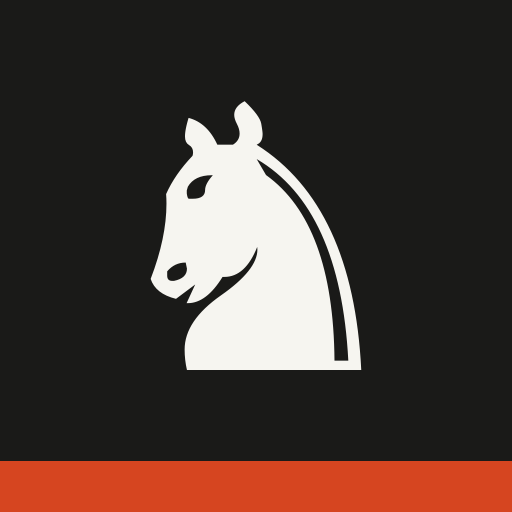
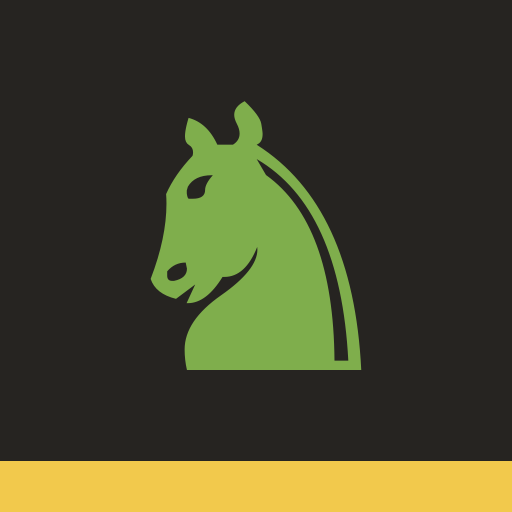
Add files via upload

Changed region(s): [[0.2812, 0.1875, 0.7188, 0.75], [0.0, 0.875, 1.0, 1.0]]

diff --git a/app.js b/app.js
@@ -9,6 +9,14 @@
 const REP = [{"id":"italian","name":"Apertura Italiana","color":"w","eco":"C50","desc":"Desarrollo rápido apuntando a f7. Tranquila y muy sólida.","lines":[{"label":"Giuoco Pianissimo","moves":[{"san":"e4","note":"Ocupas el centro y liberas dama y alfil."},{"san":"e5"},{"san":"Nf3","note":"Atacas e5 y te desarrollas hacia el enroque."},{"san":"Nc6"},{"san":"Bc4","note":"El alfil apunta a f7, el punto más débil del rival."},{"san":"Bc5"},{"san":"c3","note":"Preparas d4 para construir un centro grande."},{"san":"Nf6"},{"san":"d3","note":"Sin prisas: posición sólida y lista para maniobrar."},{"san":"d6"}]},{"label":"Dos Caballos","moves":[{"san":"e4","note":"Centro y desarrollo."},{"san":"e5"},{"san":"Nf3","note":"Presionas e5."},{"san":"Nc6"},{"san":"Bc4","note":"Apuntas a f7."},{"san":"Nf6","note":"Dos Caballos: el rival contraataca e4 en vez de ...Bc5."},{"san":"d3","note":"Defiendes e4 con calma y evitas complicaciones."},{"san":"Bc5"},{"san":"O-O","note":"Rey seguro; el plan c3-d4 vendrá después."},{"san":"d6"}]}]},{"id":"ruylopez","name":"Ruy López","color":"w","eco":"C60","desc":"La \"Española\": presión duradera sobre el defensor de e5.","lines":[{"label":"Morphy cerrada","moves":[{"san":"e4","note":"Centro y desarrollo."},{"san":"e5"},{"san":"Nf3","note":"Presionas e5."},{"san":"Nc6"},{"san":"Bb5","note":"Clavas indirectamente al defensor de e5."},{"san":"a6"},{"san":"Ba4","note":"Mantienes la presión sin ceder el alfil."},{"san":"Nf6"},{"san":"O-O","note":"Rey a salvo, la torre entra en juego."},{"san":"Be7"},{"san":"Re1","note":"Refuerzas e4 y preparas d4/c3."},{"san":"b5"},{"san":"Bb3","note":"El alfil vuelve a la diagonal contra f7."},{"san":"d6"},{"san":"c3","note":"Preparas d4, el plan central de la Española."},{"san":"O-O"}]},{"label":"Defensa Berlín","moves":[{"san":"e4","note":"Centro y desarrollo."},{"san":"e5"},{"san":"Nf3","note":"Presionas e5."},{"san":"Nc6"},{"san":"Bb5","note":"Clavas al defensor de e5."},{"san":"Nf6","note":"El Muro de Berlín: el rival ataca e4 de inmediato."},{"san":"O-O","note":"Enrocas y ofreces el peón e4 por desarrollo."},{"san":"Nxe4"},{"san":"Re1","note":"Reconquistas la iniciativa clavando el caballo."},{"san":"Nd6"},{"san":"Bxc6","note":"Cambias para desbaratar su estructura de peones."},{"san":"dxc6"},{"san":"Nxe5","note":"Recuperas el peón con buena posición."}]}]},{"id":"queensgambit","name":"Gambito de Dama","color":"w","eco":"D30","desc":"Ofreces el peón c para desviar a d5 y dominar el centro.","lines":[{"label":"Rechazado","moves":[{"san":"d4","note":"Centro sólido de peón dama."},{"san":"d5"},{"san":"c4","note":"Ofreces el peón para desviar a d5 del centro."},{"san":"e6"},{"san":"Nc3","note":"Desarrollas presionando d5."},{"san":"Nf6"},{"san":"Bg5","note":"Clavas el caballo f6, aflojando la defensa de d5."},{"san":"Be7"},{"san":"e3","note":"Abres paso al alfil f1 con estructura firme."},{"san":"O-O"},{"san":"Nf3","note":"Desarrollo natural, control de e5."},{"san":"h6"},{"san":"Bh4","note":"Mantienes la clavada en vez de cambiar."},{"san":"b6"}]},{"label":"Aceptado","moves":[{"san":"d4","note":"Centro sólido."},{"san":"d5"},{"san":"c4","note":"Ofreces el peón c."},{"san":"dxc4","note":"El rival acepta el gambito y toma en c4."},{"san":"Nf3","note":"No recuperas el peón aún: primero desarrollas."},{"san":"Nf6"},{"san":"e3","note":"Abres la diagonal para reconquistar c4 con el alfil."},{"san":"e6"},{"san":"Bxc4","note":"Recuperas el peón con un alfil muy activo."},{"san":"c5"},{"san":"O-O","note":"Rey seguro y ligera ventaja de desarrollo."},{"san":"a6"}]},{"label":"Defensa Eslava","moves":[{"san":"d4","note":"Centro sólido."},{"san":"d5"},{"san":"c4","note":"Ofreces el peón c."},{"san":"c6","note":"La Eslava: el rival apoya d5 con el peón c en vez de e6."},{"san":"Nf3","note":"Desarrollo flexible."},{"san":"Nf6"},{"san":"Nc3","note":"Presionas d5 con otra pieza."},{"san":"dxc4"},{"san":"a4","note":"Frenas ...b5, que intentaría sostener el peón de c4."},{"san":"Bf5"}]}]},{"id":"london","name":"Sistema Londres","color":"w","eco":"D02","desc":"Setup casi automático: mismo plan sólido contra casi todo.","lines":[{"label":"Setup clásico","moves":[{"san":"d4","note":"El peón dama ancla tu centro."},{"san":"d5"},{"san":"Nf3","note":"Evitas el molesto ...Bg4."},{"san":"Nf6"},{"san":"Bf4","note":"La seña del Londres: sacas el alfil ANTES de e3."},{"san":"e6"},{"san":"e3","note":"Ahora cierras, con el alfil ya afuera y activo."},{"san":"Bd6"},{"san":"Bg3","note":"Conservas el alfil y evitas cambios."},{"san":"O-O"},{"san":"Bd3","note":"Apuntas a h7; el setup queda completo."},{"san":"b6"},{"san":"Nbd2","note":"El caballo apoyará e4 más adelante."},{"san":"Bb7"}]},{"label":"Contra ...c5","moves":[{"san":"d4","note":"Centro de peón dama."},{"san":"d5"},{"san":"Nf3","note":"Desarrollo flexible."},{"san":"Nf6"},{"san":"Bf4","note":"Sacas el alfil primero."},{"san":"c5","note":"El rival golpea tu centro por el flanco de dama."},{"san":"e3","note":"Sostienes d4 y abres tu alfil f1."},{"san":"Nc6"},{"san":"c3","note":"Refuerzas d4 para que la presión no incomode."},{"san":"Qb6"},{"san":"Qb3","note":"Ofreces cambiar damas y neutralizas la presión sobre b2."}]}]},{"id":"english","name":"Apertura Inglesa","color":"w","eco":"A20","desc":"Controlas d5 desde el flanco: una Siciliana con colores cambiados.","lines":[{"label":"Siciliana invertida","moves":[{"san":"c4","note":"Peleas por d5 desde el flanco."},{"san":"e5"},{"san":"Nc3","note":"Refuerzas el control de d5."},{"san":"Nf6"},{"san":"Nf3","note":"Presionas e5 y te desarrollas."},{"san":"Nc6"},{"san":"g3","note":"Preparas el fianchetto: tu alfil mandará en la gran diagonal."},{"san":"d5"},{"san":"cxd5","note":"Abres la posición para tu alfil de g2."},{"san":"Nxd5"},{"san":"Bg2","note":"El alfil presiona centro y flanco de dama."},{"san":"Nb6"},{"san":"O-O","note":"Rey seguro; a completar con d3/b3."},{"san":"Be7"}]},{"label":"Simétrica","moves":[{"san":"c4","note":"Control de d5 desde el flanco."},{"san":"c5","note":"El rival responde en espejo: posición simétrica."},{"san":"Nc3","note":"Desarrollas hacia d5/b5."},{"san":"Nc6"},{"san":"g3","note":"Preparas el fianchetto."},{"san":"g6"},{"san":"Bg2","note":"Tu alfil domina la gran diagonal."},{"san":"Bg7"},{"san":"Nf3","note":"Desarrollo natural."},{"san":"Nf6"},{"san":"O-O","note":"Rey seguro; rompes la simetría con d4 o b3 después."},{"san":"O-O"}]}]},{"id":"sicilian","name":"Siciliana (Najdorf)","color":"b","eco":"B90","desc":"La respuesta más combativa a 1.e4: desequilibrio desde la salida.","lines":[{"label":"Clásica 6.Be2","moves":[{"san":"e4"},{"san":"c5","note":"La Siciliana: peleas el centro de forma asimétrica."},{"san":"Nf3"},{"san":"d6","note":"Preparas ...Nf6 y controlas e5."},{"san":"d4"},{"san":"cxd4","note":"Cambias tu peón c por el central: ganas columna \"c\"."},{"san":"Nxd4"},{"san":"Nf6","note":"Atacas e4 y te desarrollas."},{"san":"Nc3"},{"san":"a6","note":"El toque Najdorf: controla b5 y prepara ...e5."},{"san":"Be2"},{"san":"e5","note":"Ganas espacio y expulsas al caballo de d4."},{"san":"Nb3"},{"san":"Be7","note":"Desarrollas y preparas el enroque."}]},{"label":"Ataque inglés 6.Be3","moves":[{"san":"e4"},{"san":"c5","note":"Siciliana."},{"san":"Nf3"},{"san":"d6","note":"Controlas e5."},{"san":"d4"},{"san":"cxd4","note":"Abres la columna c."},{"san":"Nxd4"},{"san":"Nf6","note":"Atacas e4."},{"san":"Nc3"},{"san":"a6","note":"Najdorf."},{"san":"Be3","note":"Ataque inglés: el rival prepara f3, Qd2 y enroque largo."},{"san":"e5","note":"Reaccionas en el centro ganando espacio."},{"san":"Nb3"},{"san":"Be6","note":"Desarrollas vigilando d5, casilla clave en esta línea."}]},{"label":"Alapin 2.c3","moves":[{"san":"e4"},{"san":"c5","note":"Siciliana."},{"san":"c3","note":"Alapin: el rival prepara d4 con apoyo en vez de 2.Nf3."},{"san":"Nf6","note":"Atacas e4 de inmediato para no dejarle centro cómodo."},{"san":"e5"},{"san":"Nd5","note":"El caballo se planta fuerte en el centro."},{"san":"d4"},{"san":"cxd4","note":"Abres líneas antes de que consolide."},{"san":"Nf3"},{"san":"Nc6","note":"Desarrollas presionando d4/e5."},{"san":"cxd4"},{"san":"d6","note":"Golpeas la cadena y liberas tu juego."}]}]},{"id":"french","name":"Defensa Francesa","color":"b","eco":"C00","desc":"Estructura de cadena sólida y contragolpe con ...c5.","lines":[{"label":"Winawer","moves":[{"san":"e4"},{"san":"e6","note":"Preparas ...d5 con una estructura muy sólida."},{"san":"d4"},{"san":"d5","note":"Golpeas el centro de inmediato."},{"san":"Nc3"},{"san":"Bb4","note":"Winawer: clavas el caballo y presionas e4."},{"san":"e5"},{"san":"c5","note":"Atacas la base de la cadena de peones (d4)."},{"san":"a3"},{"san":"Bxc3+","note":"Cambias alfil por caballo y dañas su estructura."},{"san":"bxc3"},{"san":"Ne7","note":"Rumbo a f5/g6 para presionar d4 y e5."}]},{"label":"Avance","moves":[{"san":"e4"},{"san":"e6","note":"Preparas ...d5."},{"san":"d4"},{"san":"d5","note":"Desafías el centro."},{"san":"e5","note":"Avance: el rival cierra el centro y gana espacio."},{"san":"c5","note":"Golpeas de inmediato la base de la cadena (d4)."},{"san":"c3"},{"san":"Nc6","note":"Sumas presión sobre d4."},{"san":"Nf3"},{"san":"Qb6","note":"La dama ataca d4 y b2: presión típica de la Francesa."}]},{"label":"Cambio","moves":[{"san":"e4"},{"san":"e6","note":"Preparas ...d5."},{"san":"d4"},{"san":"d5","note":"Desafías el centro."},{"san":"exd5","note":"Cambio: el rival simplifica y busca tablas."},{"san":"exd5","note":"Recapturas con estructura simétrica pero jugable."},{"san":"Nf3"},{"san":"Nf6","note":"Desarrollo natural."},{"san":"Bd3"},{"san":"Bd6","note":"Colocas tus piezas en espejo, sin ceder nada."}]}]},{"id":"carokann","name":"Defensa Caro-Kann","color":"b","eco":"B10","desc":"Sólida como la Francesa, pero sin encerrar el alfil bueno.","lines":[{"label":"Clásica","moves":[{"san":"e4"},{"san":"c6","note":"Preparas ...d5 sin encerrar a tu alfil bueno."},{"san":"d4"},{"san":"d5","note":"Desafías el centro de inmediato."},{"san":"Nc3"},{"san":"dxe4","note":"Abres la posición en buenos términos."},{"san":"Nxe4"},{"san":"Bf5","note":"Sacas el alfil \"problema\" ANTES de cerrarlo con ...e6."},{"san":"Ng3"},{"san":"Bg6","note":"El alfil se retira a una casilla segura y activa."},{"san":"h4"},{"san":"h6","note":"Le das casa de escape al alfil y frenas h5."},{"san":"Nf3"},{"san":"Nd7","note":"Desarrollo flexible: preparas ...Ngf6 y ...e6."}]},{"label":"Avance","moves":[{"san":"e4"},{"san":"c6","note":"Preparas ...d5."},{"san":"d4"},{"san":"d5","note":"Desafías el centro."},{"san":"e5","note":"Avance: el rival cierra el centro y gana espacio."},{"san":"Bf5","note":"La clave del Caro: tu alfil sale ANTES de quedar encerrado."},{"san":"Nf3"},{"san":"e6","note":"Ahora sí cierras, con el alfil bueno ya fuera."},{"san":"Be2"},{"san":"c5","note":"Golpeas la base de la cadena de peones."}]},{"label":"Cambio","moves":[{"san":"e4"},{"san":"c6","note":"Preparas ...d5."},{"san":"d4"},{"san":"d5","note":"Desafías el centro."},{"san":"exd5","note":"Cambio: el rival simplifica la estructura."},{"san":"cxd5","note":"Recapturas y obtienes una posición cómoda y sólida."},{"san":"Bd3"},{"san":"Nc6","note":"Desarrollas presionando d4."},{"san":"c3"},{"san":"Nf6","note":"Completas el desarrollo con total comodidad."}]}]},{"id":"kingsindian","name":"India de Rey","color":"b","eco":"E60","desc":"Cedes el centro para después atacarlo con piezas y ...e5/...f5.","lines":[{"label":"Clásica","moves":[{"san":"d4"},{"san":"Nf6","note":"Controlas e4 con flexibilidad."},{"san":"c4"},{"san":"g6","note":"Preparas el fianchetto: el alfil dominará la gran diagonal."},{"san":"Nc3"},{"san":"Bg7","note":"El alfil presiona el centro y protege tu rey."},{"san":"e4"},{"san":"d6","note":"Cedes espacio a propósito para golpear con ...e5 luego."},{"san":"Nf3"},{"san":"O-O","note":"Rey seguro antes de romper en el centro."},{"san":"Be2"},{"san":"e5","note":"El golpe temático: atacas su centro con piezas listas."},{"san":"O-O"},{"san":"Nc6","note":"Presionas d4 y preparas reagrupamientos."}]},{"label":"Sämisch","moves":[{"san":"d4"},{"san":"Nf6","note":"Controlas e4."},{"san":"c4"},{"san":"g6","note":"Preparas el fianchetto."},{"san":"Nc3"},{"san":"Bg7","note":"El alfil apunta al centro."},{"san":"e4"},{"san":"d6","note":"Estructura India de Rey."},{"san":"f3","note":"Sämisch: el rival blinda e4 y prepara enroque largo y ataque."},{"san":"O-O","note":"Enrocas; buscarás contrajuego con ...e5 o ...c5."},{"san":"Be3"},{"san":"e5","note":"Golpeas el centro sin miedo a la estructura sólida rival."}]},{"label":"Fianchetto","moves":[{"san":"d4"},{"san":"Nf6","note":"Controlas e4."},{"san":"c4"},{"san":"g6","note":"Preparas el fianchetto."},{"san":"Nc3"},{"san":"Bg7","note":"Alfil a la gran diagonal."},{"san":"Nf3","note":"El rival elige el sistema de fianchetto en vez de 4.e4."},{"san":"O-O","note":"Enrocas con seguridad."},{"san":"g3"},{"san":"d6","note":"Preparas la ruptura ...e5 con calma."},{"san":"Bg2"},{"san":"Nbd7","note":"El caballo apoya la futura ruptura ...e5."}]}]},{"id":"qgd","name":"Gambito de Dama Rechazado","color":"b","eco":"D35","desc":"Estructura firme; resuelves el alfil dama con ...Be7 y ...Nbd7.","lines":[{"label":"Variante del cambio","moves":[{"san":"d4"},{"san":"d5","note":"Ocupas el centro con solidez."},{"san":"c4"},{"san":"e6","note":"Rechazas el gambito y refuerzas d5."},{"san":"Nc3"},{"san":"Nf6","note":"Desarrollas y defiendes d5."},{"san":"cxd5","note":"Cambio: el rival fija la estructura."},{"san":"exd5","note":"Recapturas manteniendo un peón sólido en d5."},{"san":"Bg5"},{"san":"Be7","note":"Rompes la clavada y preparas el enroque."},{"san":"e3"},{"san":"O-O","note":"Rey a salvo; tu estructura es muy firme."},{"san":"Bd3"},{"san":"Nbd7","note":"El caballo irá a f6/f8 para reforzar la defensa."}]},{"label":"Principal con Bg5","moves":[{"san":"d4"},{"san":"d5","note":"Centro sólido."},{"san":"c4"},{"san":"e6","note":"Rechazas el gambito."},{"san":"Nc3"},{"san":"Nf6","note":"Defiendes d5."},{"san":"Bg5","note":"El rival clava tu caballo para presionar d5."},{"san":"Be7","note":"Deshaces la clavada con desarrollo."},{"san":"e3"},{"san":"O-O","note":"Rey seguro."},{"san":"Nf3"},{"san":"h6","note":"Interrogas al alfil: que decida clavar o cambiar."},{"san":"Bh4"},{"san":"b6","note":"Preparas ...Bb7 para pelear por e4 y la gran diagonal."}]},{"label":"Catalán","moves":[{"san":"d4"},{"san":"d5","note":"Centro sólido."},{"san":"c4"},{"san":"e6","note":"Rechazas el gambito."},{"san":"Nf3","note":"El rival va rumbo al Catalán en vez de 3.Nc3."},{"san":"Nf6","note":"Desarrollo natural."},{"san":"g3"},{"san":"Be7","note":"Te desarrollas con solidez ante el fianchetto rival."},{"san":"Bg2"},{"san":"O-O","note":"Rey seguro."},{"san":"O-O"},{"san":"dxc4","note":"Tomas en c4: si el rival lo recupera, habrás ganado tiempo o el peón cuesta trabajo recobrarlo."}]}]}];
 
 const GLYPH={p:'\u265F',n:'\u265E',b:'\u265D',r:'\u265C',q:'\u265B',k:'\u265A'};
+const PIECE_SVG={
+  p:'<ellipse class="sh" cx="50" cy="91" rx="24" ry="5"/><circle class="bd" cx="50" cy="30" r="11"/><path class="bd" d="M42 38c-5 4-8 12-9 26h34c-1-14-4-22-9-26z"/><path class="bd" d="M31 62h38c3 0 5 3 4 6l-2 9H29l-2-9c-1-3 1-6 4-6z"/>',
+  n:'<ellipse class="sh" cx="50" cy="91" rx="27" ry="5"/><path class="bd" d="M56 16c-9 0-17 5-24 14-4 5-8 12-9 22-.4 4 .3 7 2 9h7c0-5 2-9 5-12-1 4-1 8 0 11h33c3-15 3-30-3-41-2-4-6-13-11-13z"/><path class="mane" d="M56 16c3 0 6 5 8 9-4-2-8-2-12 0 1-4 2-9 4-9z"/><circle class="ey" cx="40" cy="40" r="2.6"/><path class="bd" d="M29 66h42c3 0 5 3 4 6l-2 9H27l-2-9c-1-3 1-6 4-6z"/>',
+  b:'<ellipse class="sh" cx="50" cy="91" rx="25" ry="5"/><circle class="bd" cx="50" cy="17" r="5"/><path class="bd" d="M50 23c-10 0-17 11-17 24 0 7 3 13 8 16h18c5-3 8-9 8-16 0-13-7-24-17-24z"/><path class="cut" d="M50 36l7 10H43z"/><path class="bd" d="M31 65h38c3 0 5 3 4 6l-2 10H29l-2-10c-1-3 1-6 4-6z"/>',
+  r:'<ellipse class="sh" cx="50" cy="91" rx="26" ry="5"/><path class="bd" d="M29 22h7v6h6v-6h6v6h6v-6h7v15l-6 6v20H35V43l-6-6z"/><rect class="bd" x="35" y="58" width="30" height="6"/><path class="bd" d="M27 66h46c3 0 5 3 4 6l-2 10H25l-2-10c-1-3 1-6 4-6z"/>',
+  q:'<ellipse class="sh" cx="50" cy="91" rx="27" ry="5"/><circle class="bd" cx="26" cy="28" r="4.5"/><circle class="bd" cx="38" cy="22" r="4.5"/><circle class="bd" cx="50" cy="19" r="4.5"/><circle class="bd" cx="62" cy="22" r="4.5"/><circle class="bd" cx="74" cy="28" r="4.5"/><path class="bd" d="M26 31l7 33h34l7-33-13 14-5-18-6 20-6-20-5 18z"/><path class="bd" d="M30 60h40c3 0 4 2 4 5l-1 5H31l-1-5c0-3 1-5 4-5z"/><path class="bd" d="M27 72h46c3 0 5 3 4 6l-2 8H25l-2-8c-1-3 1-6 4-6z"/>',
+  k:'<ellipse class="sh" cx="50" cy="91" rx="27" ry="5"/><path class="bd" d="M46 8h8v6h6v7h-6v7h-8v-7h-6v-7h6z"/><path class="bd" d="M50 30c-12 0-21 9-21 21 0 6 2 10 5 13-3 2-5 5-6 9h44c-1-4-3-7-6-9 3-3 5-7 5-13 0-12-9-21-21-21z"/><path class="bd" d="M28 71h44c3 0 5 3 4 6l-2 9H26l-2-9c-1-3 1-6 4-6z"/>'
+};
 const FILES=['a','b','c','d','e','f','g','h'];
 const DAY=86400000;
 const $=id=>document.getElementById(id);
@@ -17,10 +25,10 @@ const el=(t,c)=>{const e=document.createElement(t); if(c)e.className=c; return e
 // ===================== PERSISTENCIA =====================
 const STORE_KEY='cae_v1';
 let persistOK=true;
-function defaultStore(){ return {version:1, items:{}, stats:{lines:0,attempts:0,correct:0}, streak:{count:0,lastDay:null}, customPgns:[], settings:{newPerSession:5}}; }
+function defaultStore(){ return {version:1, items:{}, stats:{lines:0,attempts:0,correct:0}, streak:{count:0,lastDay:null}, customPgns:[], settings:{newPerSession:5, guideMode:true}}; }
 let store=defaultStore();
 function loadStore(){
-  try{ const raw=localStorage.getItem(STORE_KEY); if(raw){ const p=JSON.parse(raw); store=Object.assign(defaultStore(),p); store.items=p.items||{}; store.stats=Object.assign({lines:0,attempts:0,correct:0},p.stats); store.streak=Object.assign({count:0,lastDay:null},p.streak); store.customPgns=p.customPgns||[]; store.settings=Object.assign({newPerSession:5},p.settings); } }
+  try{ const raw=localStorage.getItem(STORE_KEY); if(raw){ const p=JSON.parse(raw); store=Object.assign(defaultStore(),p); store.items=p.items||{}; store.stats=Object.assign({lines:0,attempts:0,correct:0},p.stats); store.streak=Object.assign({count:0,lastDay:null},p.streak); store.customPgns=p.customPgns||[]; store.settings=Object.assign({newPerSession:5,guideMode:true},p.settings); } }
   catch(e){ persistOK=false; }
   // probar escritura
   try{ localStorage.setItem(STORE_KEY+'_t','1'); localStorage.removeItem(STORE_KEY+'_t'); }catch(e){ persistOK=false; }
@@ -260,7 +268,15 @@ function startOpening(op, opts){
   $('plyTotal').textContent=Math.max(...op.lines.map(l=>l.moves.length));
   $('btnHint').disabled=false; $('btnRestart').disabled=false; $('btnUndo').disabled=true;
   setIdea('idea','Empieza la línea','La máquina juega la respuesta del rival. Encuentra el movimiento del repertorio.');
+  updateSideLabels();
   renderBoard(); renderLog(); autoAdvance();
+}
+function updateSideLabels(){
+  const rivalColor = activeOp.color==='w' ? 'b' : 'w';
+  const rivalWord = rivalColor==='w' ? 'blancas' : 'negras';
+  const youWord = activeOp.color==='w' ? 'blancas' : 'negras';
+  $('labelTop').innerHTML = '<span class="chip '+(rivalColor==='w'?'wtone':'btone')+'"></span><span>juega el rival ('+rivalWord+')</span>';
+  $('labelBottom').innerHTML = '<span class="chip '+(activeOp.color==='w'?'wtone':'btone')+'"></span><span><span class="who">Tú</span> juegas aquí ('+youWord+')</span>';
 }
 function exploreOpening(opId){ inSession=false; freeMode=true; activeItem=null; startOpening(opFull(opId)); }
 function exploreItem(itemId){ inSession=false; freeMode=false; const it=itemById(itemId); activeItem=it; startOpening(opFromItem(it)); }
@@ -310,8 +326,9 @@ function autoAdvance(){
     const res=chess.move(san); lastMove=res?{from:res.from,to:res.to}:null; played.push(san); ply++;
     setIdea('idea','Juega el rival','<span class="mv">'+san+'</span>'+(note?' — '+note:''));
   }
-  maybeReveal(); updateTurn(); renderBoard(); renderLog();
+  maybeReveal(); updateTurn();
   awaiting=true; cleanMove=true; hintUsedMove=false; hintLevel=0; $('btnUndo').disabled=(ply===0);
+  renderBoard(); renderLog();
 }
 function maybeReveal(){
   if(revealed||freeMode) return;
@@ -362,12 +379,15 @@ function renderBoard(){
   const rl=$('ranks'); rl.innerHTML=''; rO.forEach(r=>{const d=el('div');d.textContent=(8-r);rl.appendChild(d);});
   const fl=$('files'); fl.innerHTML=''; fO.forEach(f=>{const d=el('div');d.textContent=FILES[f];fl.appendChild(d);});
   let targets=[]; if(selected){ targets=chess.moves({square:selected,verbose:true}).map(m=>({to:m.to,cap:!!m.captured})); }
+  let guideSq=null;
+  if(awaiting && !selected && store.settings.guideMode){ const exps=expectedSans(); if(exps.length){ const ft=fromToOf(exps[0]); if(ft) guideSq=ft.from; } }
   rO.forEach(r=>{ fO.forEach(f=>{
     const sq=FILES[f]+(8-r); const cell=el('div','sq '+(((f+r)%2===1)?'dark':'light')); cell.dataset.sq=sq;
-    const pc=grid[r][f]; if(pc){ const sp=el('span','piece '+pc.color); sp.textContent=GLYPH[pc.type]; cell.appendChild(sp); }
+    const pc=grid[r][f]; if(pc){ const sp=el('span','piece '+pc.color); sp.innerHTML='<svg viewBox="0 0 100 100" aria-hidden="true">'+PIECE_SVG[pc.type]+'</svg>'; cell.appendChild(sp); }
     if(selected===sq) cell.classList.add('selected');
     const t=targets.find(x=>x.to===sq); if(t){ if(t.cap)cell.classList.add('target-capture'); cell.appendChild(el('span','dot')); }
     if(lastMove&&(lastMove.from===sq||lastMove.to===sq)) cell.classList.add('lastmove');
+    if(guideSq===sq) cell.classList.add('guide');
     if(awaiting){ const mine=pc&&pc.color===activeOp.color; if(mine||selected) cell.classList.add('playable'); }
     cell.addEventListener('click',()=>onSquare(sq)); board.appendChild(cell);
   });});
@@ -468,6 +488,7 @@ function initApp(){
   $('btnRestart').addEventListener('click',doRestart);
   $('btnContinue').addEventListener('click',()=>{ nextInSession(); });
   const nps=$('newPerSession'); nps.value=store.settings.newPerSession; nps.addEventListener('change',()=>{ store.settings.newPerSession=Math.max(0,Math.min(20,parseInt(nps.value)||0)); saveStore(); renderHome(); });
+  const gm=$('guideMode'); if(gm){ gm.checked=store.settings.guideMode!==false; gm.addEventListener('change',()=>{ store.settings.guideMode=gm.checked; saveStore(); if(activeOp) renderBoard(); }); }
   const bSignIn=$('btnSignIn'); if(bSignIn) bSignIn.addEventListener('click',async()=>{ try{ await window.CloudSync.signIn(); }catch(e){ toast('No se pudo iniciar sesión.',true); } });
   const bSignOut=$('btnSignOut'); if(bSignOut) bSignOut.addEventListener('click',async()=>{ await window.CloudSync.signOutUser(); toast('Cerraste sesión. Tus avances siguen guardados en este dispositivo.'); });
   const bSyncNow=$('btnSyncNow'); if(bSyncNow) bSyncNow.addEventListener('click',doPullAndMerge);

diff --git a/index.html b/index.html
@@ -4,7 +4,7 @@
 <meta charset="UTF-8">
 <meta name="viewport" content="width=device-width, initial-scale=1.0, viewport-fit=cover">
 <title>Entrenador de aperturas</title>
-<meta name="theme-color" content="#1A1A18">
+<meta name="theme-color" content="#262421">
 <meta name="description" content="Tu instructor de aperturas de ajedrez con repaso espaciado. Funciona sin conexión.">
 <link rel="manifest" href="./manifest.webmanifest">
 <link rel="apple-touch-icon" href="./apple-touch-icon.png">
@@ -13,10 +13,10 @@
 <meta name="apple-mobile-web-app-title" content="Aperturas">
 <style>
   :root{
-    --paper:#E7E6E1; --surface:#F2F1EC; --ink:#1A1A18; --ink-soft:#6B6A64;
-    --line:#C9C7BE; --sq-light:#DAD8D0; --sq-dark:#3C4A5A;
-    --piece-white:#F6F5F0; --piece-black:#16181C;
-    --good:#2E7D4F; --bad:#C0392B; --accent:#D64520; --hint:#E0A100;
+    --paper:#262421; --surface:#302E2B; --ink:#EDEDE6; --ink-soft:#9E9B94;
+    --line:#47443F; --sq-light:#EDEED1; --sq-dark:#7A9560;
+    --piece-white:#FAFAF5; --piece-black:#1B1B1B;
+    --good:#6FB35C; --bad:#E2584B; --accent:#7FAE4C; --hint:#E7A93B; --board-mark:#F2C94C; --hero-bg:#33421F;
   }
   *{box-sizing:border-box}
   html,body{margin:0;padding:0}
@@ -31,7 +31,7 @@
   button{font-family:inherit}
 
   /* ---------- header ---------- */
-  header.top{display:flex;align-items:center;justify-content:space-between;gap:12px;flex-wrap:wrap;border-bottom:2px solid var(--ink);padding-bottom:14px;margin-bottom:20px}
+  header.top{display:flex;align-items:center;justify-content:space-between;gap:12px;flex-wrap:wrap;border-bottom:2px solid var(--line);padding-bottom:14px;margin-bottom:20px}
   header.top .brand{display:flex;align-items:center;gap:11px}
   header.top .brand .logo{width:30px;height:30px;flex:0 0 auto}
   header.top h1{font-size:clamp(19px,3vw,26px);font-weight:700;letter-spacing:-0.02em;margin:0;text-transform:lowercase}
@@ -44,7 +44,7 @@
   .pill.warn{border-color:var(--hint);color:#9a7400}
 
   /* ---------- hero sesión ---------- */
-  .hero{background:var(--ink);color:var(--paper);border-radius:3px;padding:22px 22px;margin-bottom:20px;display:flex;align-items:center;justify-content:space-between;gap:18px;flex-wrap:wrap;position:relative;overflow:hidden}
+  .hero{background:var(--hero-bg);color:var(--ink);border-radius:3px;padding:22px 22px;margin-bottom:20px;display:flex;align-items:center;justify-content:space-between;gap:18px;flex-wrap:wrap;position:relative;overflow:hidden}
   .hero::after{content:"";position:absolute;right:-40px;bottom:-40px;width:160px;height:14px;background:var(--accent);transform:rotate(-12deg)}
   .hero .hero-left{position:relative;z-index:1}
   .hero .hero-eyebrow{font-size:12px;letter-spacing:.05em;color:#B9B7AE;margin:0 0 6px;text-transform:lowercase}
@@ -67,17 +67,17 @@
 
   .cols{display:grid;grid-template-columns:1fr 1fr;gap:22px;margin-bottom:22px}
   .rep-col h3{font-size:11px;color:var(--ink-soft);margin:0 0 8px;display:flex;align-items:center;gap:7px;font-weight:400}
-  .rep-col h3::before{content:"";width:12px;height:12px;border:1.5px solid var(--ink)}
-  .rep-col.black h3::before{background:var(--ink)}
+  .rep-col h3::before{content:"";width:12px;height:12px;border:1.5px solid var(--line)}
+  .rep-col.black h3::before{background:var(--piece-black)}
   .rep-row{display:block;width:100%;text-align:left;cursor:pointer;background:var(--surface);border:1.5px solid var(--line);border-radius:2px;padding:9px 11px;margin-bottom:7px;color:var(--ink);transition:border-color .12s}
   .rep-row:hover{border-color:var(--ink)}
   .rep-row:focus-visible{outline:2px solid var(--accent);outline-offset:2px}
   .rr-top{display:flex;justify-content:space-between;align-items:baseline;gap:8px}
   .rr-name{font-size:14px}
   .rr-eco,.rr-due{font-size:11px;color:var(--ink-soft);font-family:ui-monospace,Menlo,monospace}
-  .rr-due{color:var(--accent);font-weight:700}
+  .rr-due{color:var(--hint);font-weight:700}
   .rr-bar{height:5px;background:var(--line);border-radius:2px;margin-top:8px;overflow:hidden}
-  .rr-bar span{display:block;height:100%;background:var(--ink)}
+  .rr-bar span{display:block;height:100%;background:var(--accent)}
 
   /* ---------- pgn + ajustes ---------- */
   .panel{background:var(--surface);border:1.5px solid var(--line);border-radius:2px;padding:16px;margin-bottom:16px}
@@ -88,11 +88,11 @@
   .panel input:focus-visible,.panel textarea:focus-visible{outline:2px solid var(--accent);outline-offset:1px}
   .pgn-colors{display:flex;gap:16px;font-size:13px;margin:8px 0}
   .pgn-colors label{display:flex;align-items:center;gap:6px;cursor:pointer;margin:0}
-  .btn{background:var(--ink);color:var(--paper);border:1.5px solid var(--ink);border-radius:2px;padding:10px 16px;font-size:14px;cursor:pointer;transition:background .12s,color .12s}
-  .btn:hover{background:var(--accent);border-color:var(--accent);color:#fff}
-  .btn:focus-visible{outline:2px solid var(--accent);outline-offset:2px}
-  .btn.ghost{background:var(--paper);color:var(--ink)}
-  .btn.ghost:hover{background:var(--ink);color:var(--paper);border-color:var(--ink)}
+  .btn{background:var(--accent);color:#fff;border:1.5px solid var(--accent);border-radius:2px;padding:10px 16px;font-size:14px;cursor:pointer;transition:filter .12s}
+  .btn:hover{filter:brightness(1.12)}
+  .btn:focus-visible{outline:2px solid var(--board-mark);outline-offset:2px}
+  .btn.ghost{background:var(--surface);color:var(--ink);border:1.5px solid var(--line)}
+  .btn.ghost:hover{background:var(--line);color:var(--ink);filter:none}
   .pgn-msg{font-size:12px;margin-top:8px;min-height:15px}
   .pgn-msg.err{color:var(--bad)} .pgn-msg.ok{color:var(--good)}
   .pgn-row{display:flex;gap:8px;align-items:stretch;margin-bottom:7px}
@@ -117,34 +117,48 @@
   .tbar .sprog{font-size:12px;color:var(--accent);font-weight:600;font-family:ui-monospace,Menlo,monospace}
 
   .var-badge{font-size:12px;color:var(--ink-soft);min-height:16px;margin-bottom:8px;font-family:ui-monospace,Menlo,monospace}
+  .side-label{display:flex;align-items:center;gap:8px;font-size:13px;color:var(--ink-soft);max-width:560px;margin:0 auto;padding:2px 2px}
+  .side-label .who{font-weight:700;color:var(--ink)}
+  .side-label .chip{width:13px;height:13px;border:1.5px solid var(--line);flex:0 0 auto}
+  .side-label.you .chip.wtone{background:var(--piece-white)}
+  .side-label.rival .chip.wtone{background:var(--piece-white)}
+  .side-label .chip.btone{background:var(--piece-black)}
   .status-bar{display:flex;align-items:center;justify-content:space-between;gap:12px;flex-wrap:wrap;margin-bottom:12px}
   .turn-tag{display:flex;align-items:center;gap:9px;font-size:15px;font-weight:600}
-  .turn-tag .disc{width:15px;height:15px;border:2px solid var(--ink)}
-  .turn-tag.black .disc{background:var(--ink)}
+  .turn-tag .disc{width:15px;height:15px;border:2px solid var(--line)}
+  .turn-tag.black .disc{background:var(--piece-black);border-color:var(--piece-black)}
   .progress{font-size:13px;color:var(--ink-soft)}
   .progress .mono{color:var(--ink);font-size:14px;font-family:ui-monospace,Menlo,monospace}
 
   .board-shell{display:flex;gap:8px;align-items:stretch;max-width:560px;margin:0 auto}
   .ranks{display:flex;flex-direction:column;justify-content:space-around;font-size:11px;color:var(--ink-soft);padding:2px 0}
   .board-and-files{flex:1;min-width:0}
-  .board{width:100%;aspect-ratio:1/1;display:grid;grid-template-columns:repeat(8,1fr);grid-template-rows:repeat(8,1fr);border:2px solid var(--ink)}
+  .board{width:100%;aspect-ratio:1/1;display:grid;grid-template-columns:repeat(8,1fr);grid-template-rows:repeat(8,1fr);border:2px solid var(--line)}
   .files{display:grid;grid-template-columns:repeat(8,1fr);font-size:11px;color:var(--ink-soft);text-align:center;padding-top:3px}
   .sq{position:relative;display:flex;align-items:center;justify-content:center;user-select:none}
   .sq.light{background:var(--sq-light)} .sq.dark{background:var(--sq-dark)}
   .sq.playable{cursor:pointer}
-  .piece{font-size:min(9.4vw,50px);line-height:1;pointer-events:none}
-  @media(min-width:600px){.piece{font-size:50px}}
-  .piece.w{color:var(--piece-white);text-shadow:0 0 1px var(--ink),0 1px 2px rgba(0,0,0,.35)}
-  .piece.b{color:var(--piece-black);text-shadow:0 0 1px rgba(255,255,255,.35)}
-  .sq.selected::after{content:"";position:absolute;inset:0;border:3px solid var(--accent)}
+  .piece{width:88%;height:88%;pointer-events:none;display:flex;align-items:center;justify-content:center}
+  .piece svg{width:100%;height:100%;display:block;overflow:visible}
+  .piece .sh{fill:rgba(0,0,0,.22)}
+  .piece .bd{stroke-width:3.2;stroke-linejoin:round;stroke-linecap:round;paint-order:stroke fill}
+  .piece.w .bd{fill:var(--piece-white);stroke:#1b1b1b}
+  .piece.b .bd{fill:var(--piece-black);stroke:#0a0a0a}
+  .piece.w .ey{fill:#1b1b1b} .piece.b .ey{fill:#dddddd}
+  .piece.w .cut{fill:#1b1b1b} .piece.b .cut{fill:#0a0a0a}
+  .piece.w .mane{fill:#1b1b1b} .piece.b .mane{fill:#0a0a0a}
+  .sq.selected::after{content:"";position:absolute;inset:0;border:3px solid var(--board-mark)}
   .sq .dot{position:absolute;width:26%;height:26%;border-radius:50%;background:rgba(26,26,24,.32)}
   .sq.dark .dot{background:rgba(246,245,240,.4)}
   .sq.target-capture .dot{width:78%;height:78%;background:transparent;border:4px solid rgba(26,26,24,.34);border-radius:50%}
   .sq.dark.target-capture .dot{border-color:rgba(246,245,240,.42)}
   .sq.hint::before{content:"";position:absolute;inset:0;background:var(--hint);opacity:.34}
+  .sq.guide::after{content:"";position:absolute;inset:8%;border:3px solid var(--board-mark);border-radius:50%;opacity:.6;pointer-events:none;animation:guidepulse 1.6s ease-in-out infinite}
+  @keyframes guidepulse{0%,100%{opacity:.35;transform:scale(.94)}50%{opacity:.7;transform:scale(1)}}
+  @media(prefers-reduced-motion:reduce){.sq.guide::after{animation:none;opacity:.5}}
   .sq.flash-good::before{content:"";position:absolute;inset:0;background:var(--good);opacity:.42}
   .sq.flash-bad::before{content:"";position:absolute;inset:0;background:var(--bad);opacity:.42}
-  .sq.lastmove::before{content:"";position:absolute;inset:0;background:var(--accent);opacity:.16}
+  .sq.lastmove::before{content:"";position:absolute;inset:0;background:var(--board-mark);opacity:.20}
 
   .idea{background:var(--surface);border:1.5px solid var(--line);border-radius:2px;padding:14px 16px;min-height:88px;max-width:560px;margin:14px auto 0}
   .idea .head{font-size:12px;letter-spacing:.05em;color:var(--ink-soft);margin:0 0 6px;font-weight:600}
@@ -160,17 +174,17 @@
   .moves-log .num{color:var(--ink-soft)}
 
   .controls{display:flex;gap:10px;flex-wrap:wrap;max-width:560px;margin:14px auto 0}
-  button.ctrl{font-size:14px;cursor:pointer;padding:11px 16px;border-radius:2px;border:1.5px solid var(--ink);background:var(--paper);color:var(--ink);transition:background .12s,color .12s}
-  button.ctrl:hover{background:var(--ink);color:var(--paper)}
-  button.ctrl:focus-visible{outline:2px solid var(--accent);outline-offset:2px}
-  button.ctrl.primary{background:var(--ink);color:var(--paper)}
-  button.ctrl.primary:hover{background:var(--accent);border-color:var(--accent)}
+  button.ctrl{font-size:14px;cursor:pointer;padding:11px 16px;border-radius:2px;border:1.5px solid var(--line);background:var(--surface);color:var(--ink);transition:background .12s,color .12s}
+  button.ctrl:hover{background:var(--line);color:var(--ink)}
+  button.ctrl:focus-visible{outline:2px solid var(--board-mark);outline-offset:2px}
+  button.ctrl.primary{background:var(--accent);color:#fff;border-color:var(--accent)}
+  button.ctrl.primary:hover{filter:brightness(1.12)}
   button.ctrl:disabled{opacity:.4;cursor:not-allowed}
-  button.ctrl:disabled:hover{background:var(--paper);color:var(--ink)}
+  button.ctrl:disabled:hover{background:var(--surface);color:var(--ink)}
 
   .err-load{background:#fff;border:2px solid var(--bad);padding:16px;border-radius:2px;color:var(--bad);font-size:14px;margin-bottom:16px}
 
-  .toast{position:fixed;left:50%;bottom:calc(20px + env(safe-area-inset-bottom));transform:translateX(-50%) translateY(120%);background:var(--ink);color:var(--paper);padding:13px 18px;border-radius:3px;font-size:14px;max-width:90vw;text-align:center;transition:transform .3s;z-index:50;box-shadow:0 6px 22px rgba(0,0,0,.25)}
+  .toast{position:fixed;left:50%;bottom:calc(20px + env(safe-area-inset-bottom));transform:translateX(-50%) translateY(120%);background:var(--surface);color:var(--ink);border:1.5px solid var(--line);padding:13px 18px;border-radius:3px;font-size:14px;max-width:90vw;text-align:center;transition:transform .3s;z-index:50;box-shadow:0 6px 22px rgba(0,0,0,.45)}
   .toast.show{transform:translateX(-50%) translateY(0)}
   .toast.err{background:var(--bad)}
 
@@ -259,6 +273,9 @@
         <label style="margin:0">Líneas nuevas por sesión</label>
         <input class="num" type="number" id="newPerSession" min="0" max="20" value="5">
       </div>
+      <div class="settings-row" style="margin-top:12px">
+        <label style="margin:0;display:flex;align-items:center;gap:8px;cursor:pointer"><input type="checkbox" id="guideMode" style="width:16px;height:16px"> Resaltar la pieza a mover (ayuda para principiantes)</label>
+      </div>
       <p class="muted" style="margin-top:10px">Tus avances viven en este dispositivo. Para pasarlos a otro (móvil ↔ tablet), exporta aquí e importa allá.</p>
       <div class="backup-btns">
         <button class="btn ghost" id="btnExport">Exportar avances</button>
@@ -276,6 +293,9 @@
     </div>
 
     <div class="var-badge" id="varBadge"></div>
+    <div class="side-label rival" id="labelTop">
+      <span class="chip" id="chipTop"></span><span>juega el rival</span>
+    </div>
     <div class="status-bar">
       <div class="turn-tag" id="turnTag"><span class="disc"></span><span id="turnText">—</span></div>
       <div class="progress">jugada <span class="mono" id="plyNow">0</span> de <span class="mono" id="plyTotal">0</span></div>
@@ -287,6 +307,10 @@
         <div class="board" id="board" role="grid" aria-label="Tablero"></div>
         <div class="files" id="files"></div>
       </div>
+    </div>
+
+    <div class="side-label you" id="labelBottom" style="margin-top:6px">
+      <span class="chip" id="chipBottom"></span><span><span class="who">Tú</span> juegas aquí</span>
     </div>
 
     <div class="idea" id="ideaBox">

diff --git a/firebase-sync.js b/firebase-sync.js
@@ -79,7 +79,7 @@ if(!cfg || !cfg.apiKey || cfg.apiKey.indexOf('PEGA_') === 0){
   function fromCloudShape(cloud){
     const items = {};
     (cloud.items || []).forEach(it => { const id = it.id; const copy = Object.assign({}, it); delete copy.id; items[id] = copy; });
-    return { version: cloud.version || 1, items, stats: cloud.stats || {lines:0,attempts:0,correct:0}, streak: cloud.streak || {count:0,lastDay:null}, customPgns: cloud.customPgns || [], settings: { newPerSession: 5 } };
+    return { version: cloud.version || 1, items, stats: cloud.stats || {lines:0,attempts:0,correct:0}, streak: cloud.streak || {count:0,lastDay:null}, customPgns: cloud.customPgns || [], settings: { newPerSession: 5, guideMode: true } };
   }
 
   CloudSync.pull = async () => {
